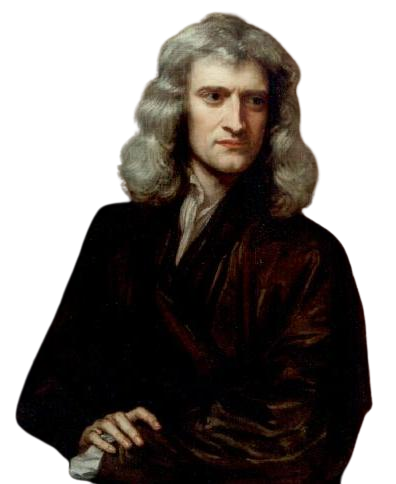
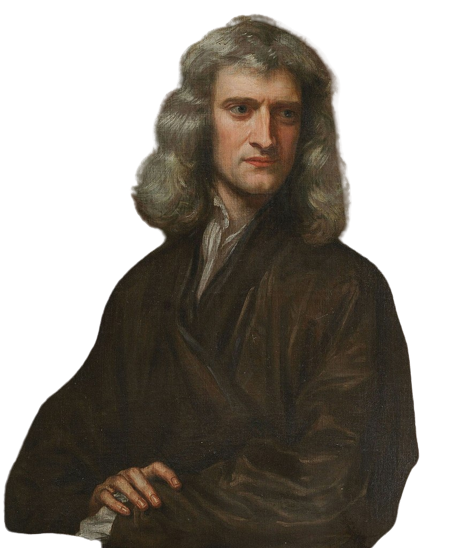
Mais responsivo agora, centralizei a caixa com as fórumlas do Movimento Uniforme, alterei a imagem para outra com mais resolução e algumas alterações de espaçamento entre os elementos com css.

diff --git a/Newton/index.html b/Newton/index.html
@@ -38,7 +38,7 @@
                     <h3>3ª Lei de Newton</h3>
                     <p>“A toda ação há sempre uma reação oposta e de igual intensidade: as ações mútuas de dois corpos um sobre o outro são sempre iguais e dirigidas em sentidos opostos.”</p>
                 </div>
-
+                
                 <div class="item">
                     <div class="item-1">
                         <h4>Equação do espaço no MU</h4>
@@ -57,6 +57,7 @@
                         <p>v² = v0² + 2 . a . Δs</p>
                     </div>
                 </div>
+
                     
             </section>
 

diff --git a/Newton/style.css b/Newton/style.css
@@ -47,6 +47,15 @@ h2 {
 
 .container { height:    100%; }
 
+section {
+    padding:          10px 0;
+    gap:              10px;
+    display:          flex;
+    flex-direction:   column;
+    align-items:      center;
+    justify-content:  center;
+}
+
 #section-1 { width:     60%;  }
 #section-2 { width:     40%;  }
 
@@ -108,7 +117,7 @@ footer p {
     color: white;
 }
 
-@media screen and (max-width: 1000px) {
+@media screen and (max-width: 1380px) {
     main {
         padding: 10px;
         flex-direction: column;
